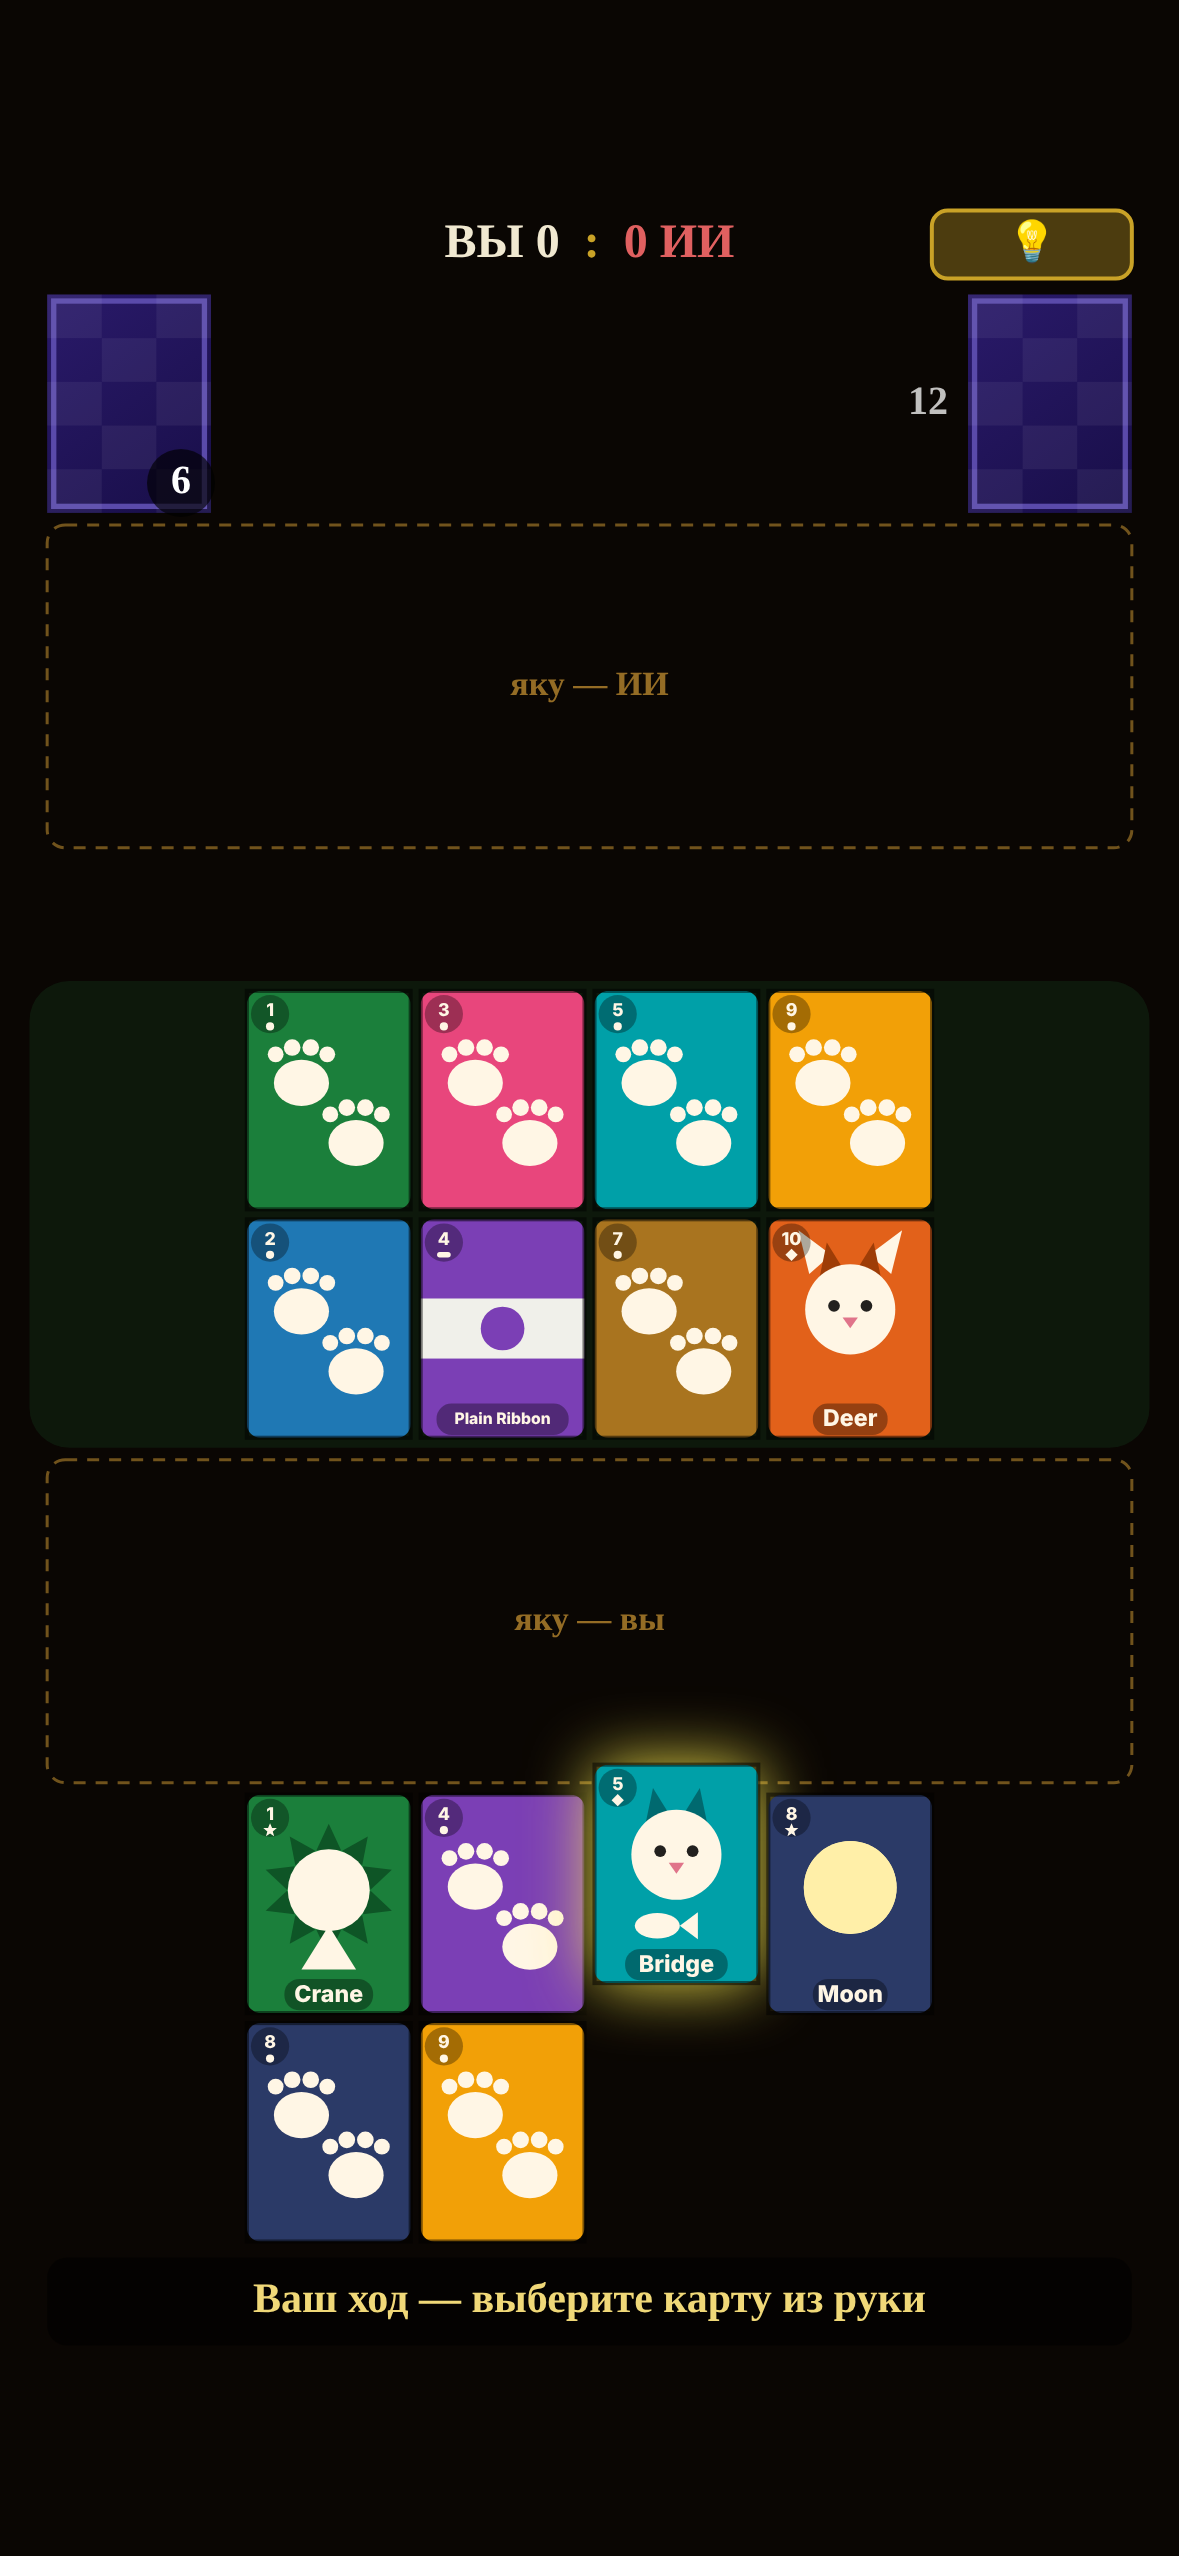
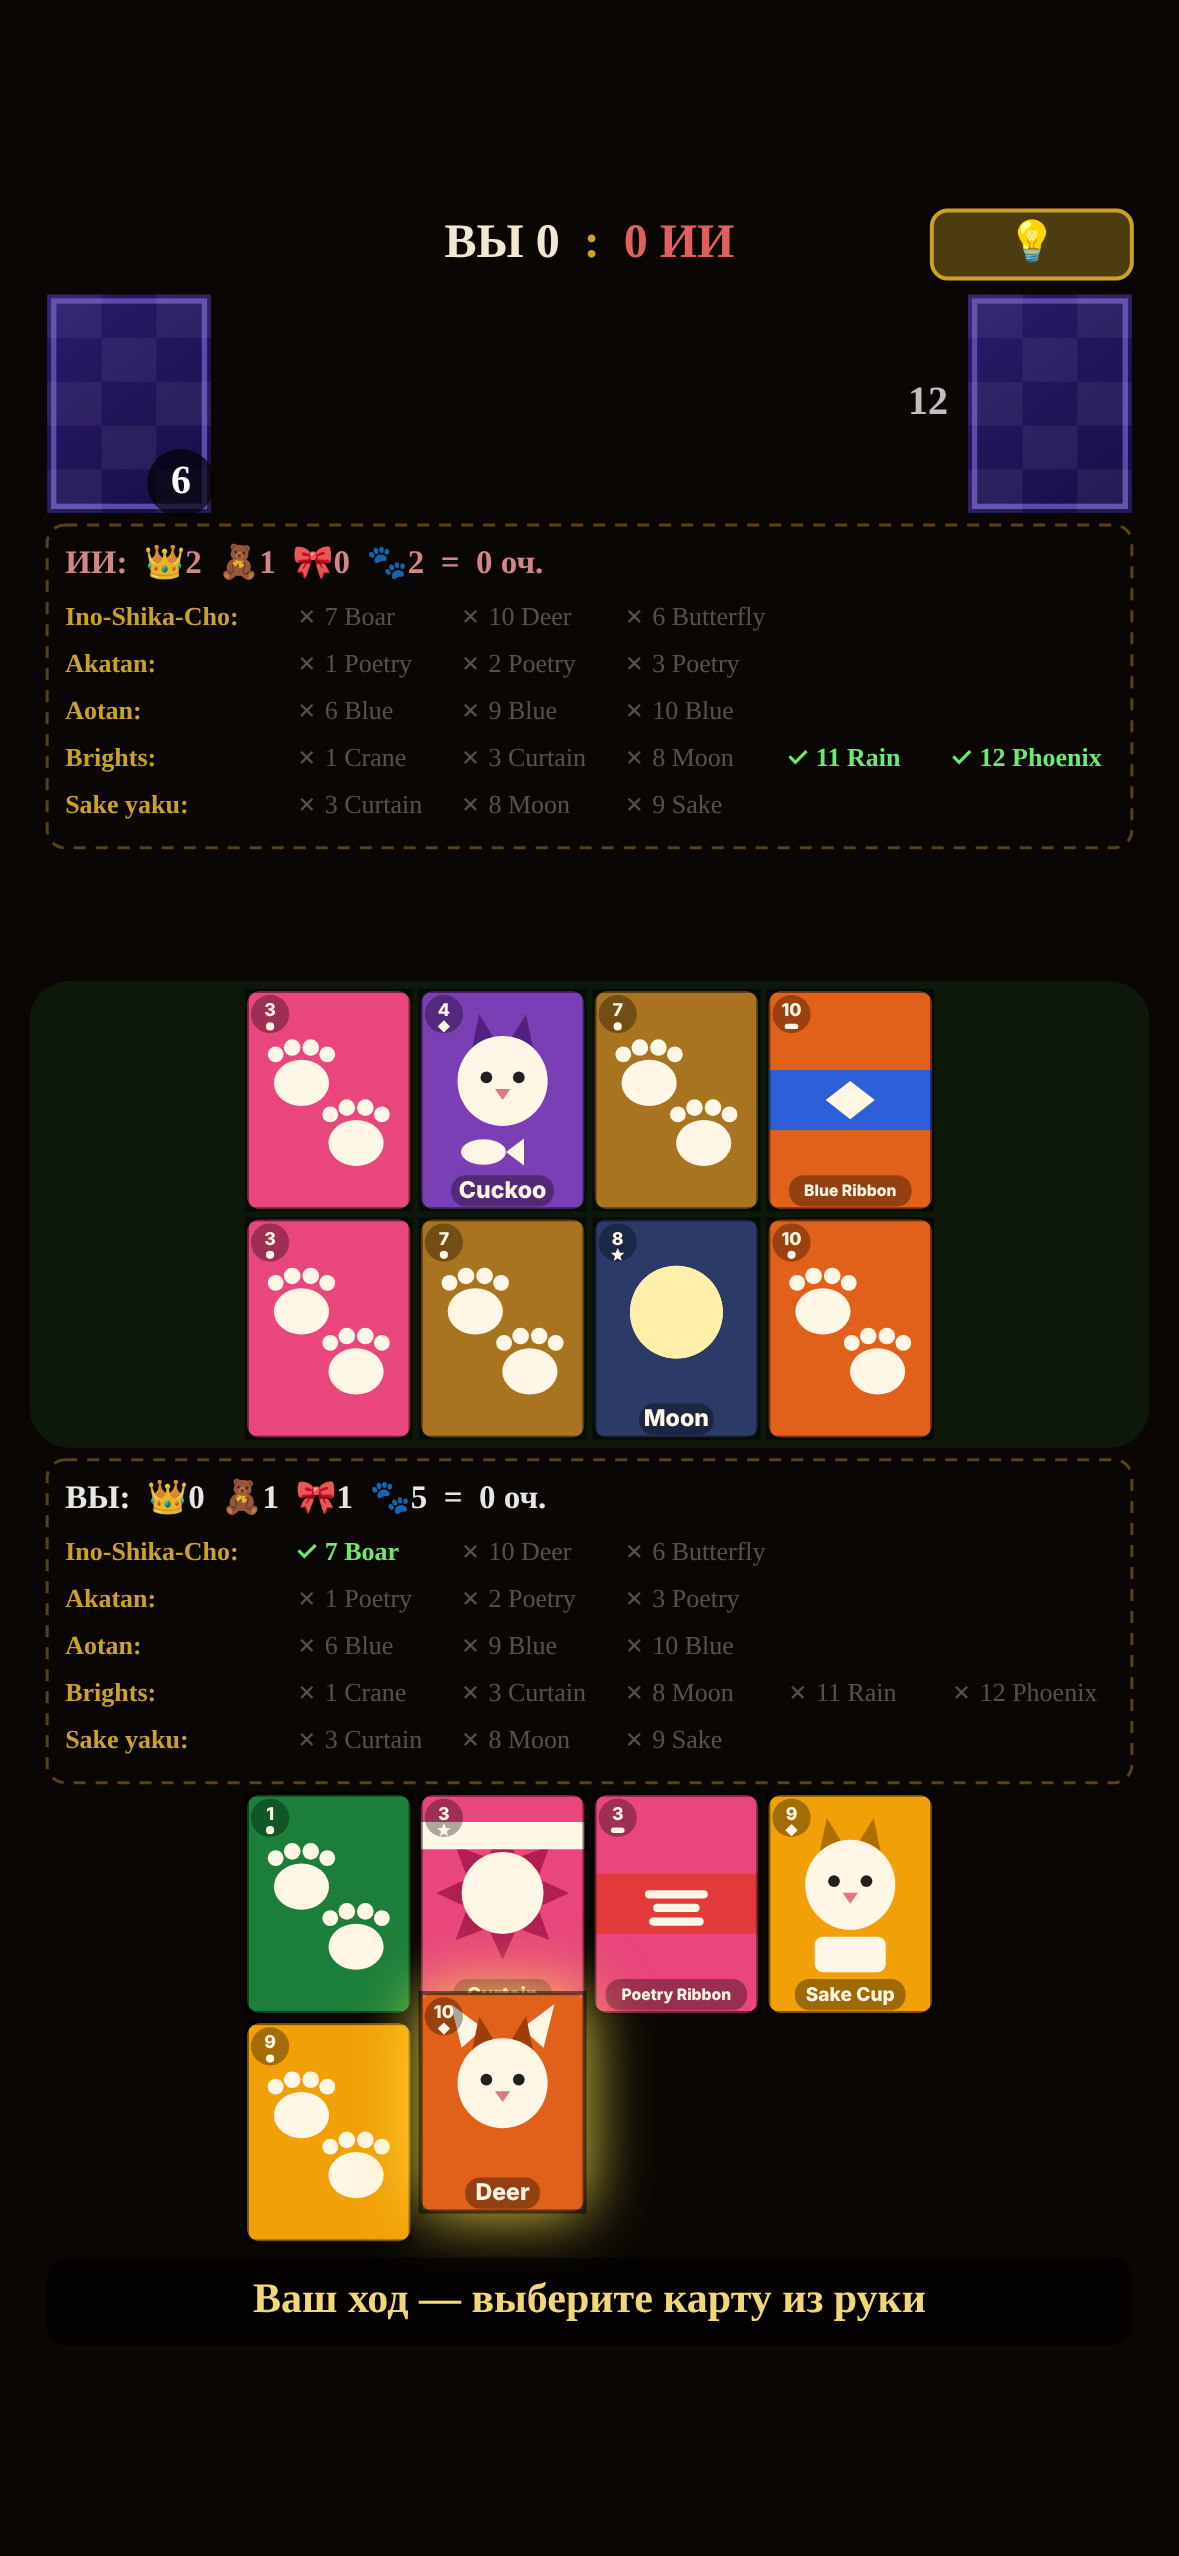
UI: яку текстом, как в старой версии — счёт по типам, собранные яку и прогресс ✓/✗, в блоках игрока и ИИ
Claude-Session: https://claude.ai/code/session_01YWBhc7XyH6Quahzkpjq16G

diff --git a/index.html b/index.html
@@ -523,15 +523,45 @@ function drawBoardTable(L){
     drawCard(x,y,card,true,false,w,h);
   });
 }
-// Место под яку (оформление ячеек — позже): рамка, собранные яку и очки раунда
+// Яку — пока текстом, как в старой версии: строка «👑 🧸 🎀 🐾 = очки» и собранные
+// яку, ниже «прогресс к яку» — нужные карты с ✓/✗ (оформление ячеек — позже)
 function drawYakuPlaceholder(r,cap,who){
-  if(r.h<30) return;
-  ct.save();ct.setLineDash([12,10]);ct.strokeStyle='rgba(240,177,60,.45)';ct.lineWidth=3;
+  if(r.h<60) return;
+  const isAi=who==='ИИ';
+  ct.save();ct.setLineDash([12,10]);ct.strokeStyle='rgba(240,177,60,.35)';ct.lineWidth=3;
   ct.beginPath();rr(r.x,r.y,r.w,r.h,18);ct.stroke();ct.restore();
-  const y=getYaku(cap), pts=yakuPts(y);
-  ct.textBaseline='middle';ct.textAlign='center';
-  ct.font='bold 34px Georgia';ct.fillStyle=pts?'#f0d070':'rgba(240,177,60,.6)';
-  ct.fillText(y.length?`${who}: ${y.map(v=>`${v.n} ${v.p}`).join(' · ')} = ${pts}`:`яку — ${who}`,r.x+r.w/2,r.y+r.h/2);
+  const n=t=>cap.filter(c=>c.t===t).length, y=getYaku(cap), pts=yakuPts(y);
+  const pad=18, top=r.y+pad, lh=Math.min(44,r.h/7);
+  ct.textBaseline='middle';ct.textAlign='left';
+  ct.font=`bold ${Math.round(lh*0.75)}px Georgia`;
+  ct.fillStyle=isAi?'rgba(230,150,150,.9)':'rgba(255,255,255,.9)';
+  ct.fillText(`${isAi?'ИИ':'ВЫ'}:  👑${n('bright')}  🧸${n('animal')}  🎀${n('ribbon')}  🐾${n('plain')}  =  ${pts} оч.`,r.x+pad,top+lh/2);
+  if(y.length){
+    ct.textAlign='right';ct.fillStyle='#f0d070';
+    ct.fillText(y.map(v=>`${v.n} ${v.p}`).join(' · '),r.x+r.w-pad,top+lh/2);
+  }
+  const has=(m,sub,t)=>cap.some(c=>c.m===m&&(!sub||c.sub===sub)&&(!t||c.t===t));
+  const rows=[
+    {label:'Ino-Shika-Cho',items:[['7 Boar',has(7,'boar')],['10 Deer',has(10,'deer')],['6 Butterfly',has(6,'butterfly')]]},
+    {label:'Akatan',items:[['1 Poetry',has(1,'poetry')],['2 Poetry',has(2,'poetry')],['3 Poetry',has(3,'poetry')]]},
+    {label:'Aotan',items:[['6 Blue',has(6,'blue')],['9 Blue',has(9,'blue')],['10 Blue',has(10,'blue')]]},
+    {label:'Brights',items:[['1 Crane',has(1,null,'bright')],['3 Curtain',has(3,null,'bright')],
+      ['8 Moon',has(8,null,'bright')],['11 Rain',has(11,null,'bright')],['12 Phoenix',has(12,null,'bright')]]},
+    {label:'Sake yaku',items:[['3 Curtain',has(3,null,'bright')],['8 Moon',has(8,null,'bright')],['9 Sake',has(9,'sake')]]},
+  ];
+  const y0=top+lh+8, rh=(r.y+r.h-pad-y0)/rows.length, LW=230, fs=Math.round(Math.min(26,rh*0.62));
+  const iw=(r.w-2*pad-LW)/5;
+  rows.forEach((row,ri)=>{
+    const cy=y0+ri*rh+rh/2, done=row.items.every(i=>i[1]);
+    ct.textAlign='left';ct.font=`bold ${fs}px Georgia`;
+    ct.fillStyle=done?'#70e870':'#c9a227';
+    ct.fillText(row.label+':',r.x+pad,cy);
+    row.items.forEach(([name,ok],ii)=>{
+      ct.font=`${ok?'bold ':''}${fs}px Georgia`;
+      ct.fillStyle=ok?'#70e870':'rgba(255,255,255,.3)';
+      ct.fillText((ok?'✓ ':'✗ ')+name,r.x+pad+LW+ii*iw,cy);
+    });
+  });
 }
 // Временная метка: отступы Telegram и размеры экрана — для проверки на телефоне.
 // Красные линии — safeAreaInset (устройство), жёлтые — + contentSafeAreaInset

diff --git a/docs/ui-layout.md b/docs/ui-layout.md
@@ -23,9 +23,11 @@
 - **Шапка:** счёт матча «ВЫ n : m ИИ» по центру, 💡 справа; «Раунд N · до 30» убран
   по слову пользователя, слева только «★ Мяу-Мяу», когда объявлено.
   Отдельные счётчики очков раунда в ячейках убраны.
-- **Яку — пока просто место:** пунктирные рамки над и под столом, внутри строка
-  собранных яку и очки раунда. Оформление ячеек — по описанию пользователя позже
-  (черновик 12 ячеек-иконок есть в истории git, коммит 531cd6c).
+- **Яку — пока текстом, как в старой версии** (по слову пользователя), в обоих
+  блоках — ИИ над столом, игрок под столом: строка «ВЫ/ИИ: 👑 🧸 🎀 🐾 = очки»,
+  справа собранные яку, ниже «прогресс к яку» — Ino-Shika-Cho, Akatan, Aotan,
+  Brights, Sake yaku с ✓/✗ по нужным картам (`drawYakuPlaceholder`). Оформление
+  ячеек — по описанию пользователя позже (черновик 12 ячеек-иконок — коммит 531cd6c).
 - **Рука** 2×4 по центру экрана, промежуток 10 — как на столе, колонки руки и стола
   (2×4) совпадают; полоса 100 у нижнего края зоны, над ней 10.
 - **Высота (iPhone 15):** поле 204 · шапка 80 · 10 · карта ИИ 218 · яку ИИ 327 ·
